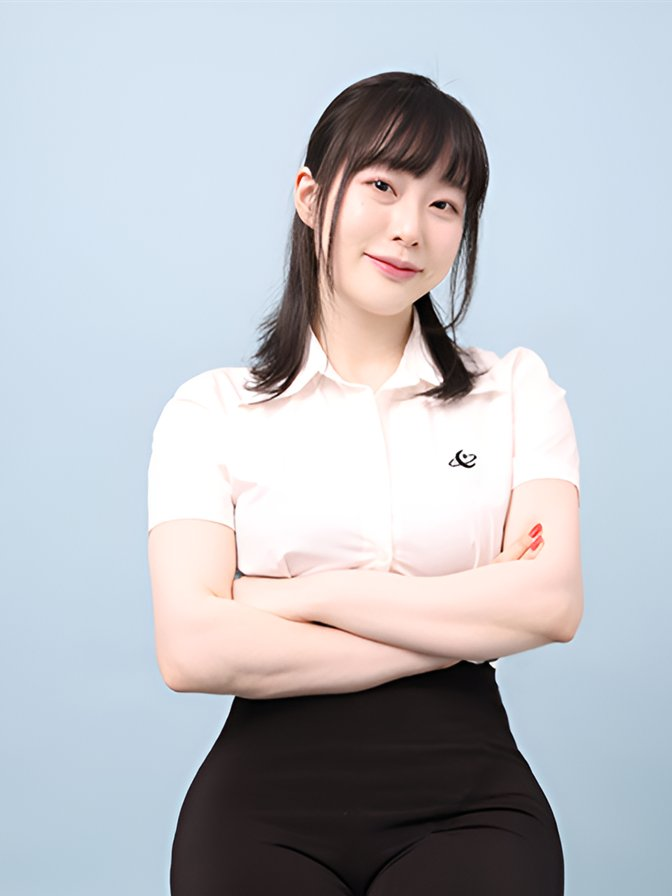
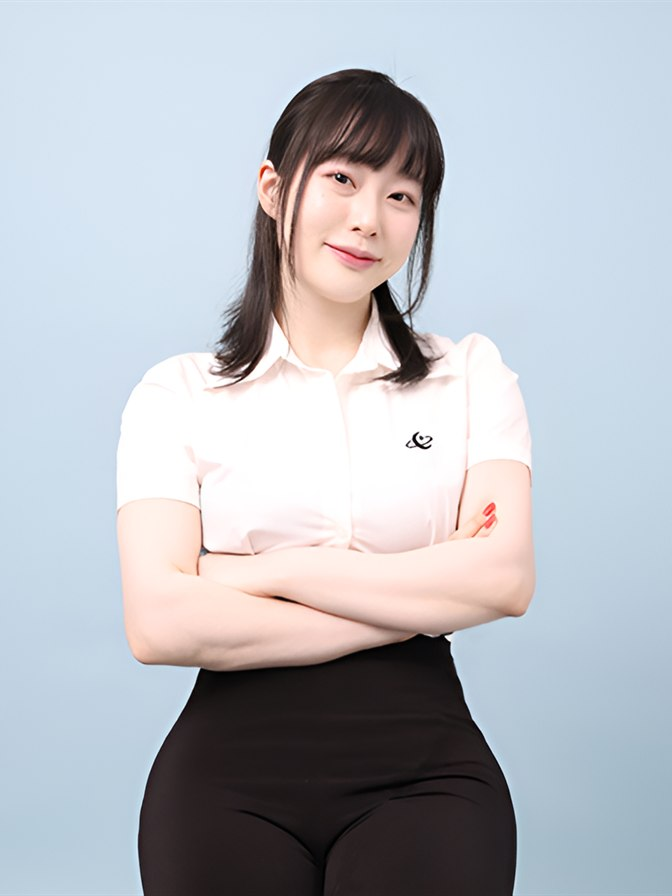
🐛 fix: VOC 디스크립션 보강 · 마퀴 속도 80% · 과확대 트레이너 사진 재크롭
- VOC 화자를 "PT 회원 중 비율이 가장 높은 30대 여성"으로 명시
- 마퀴 속도 74/-68 → 59.2/-54.4 px/s (기존의 80%)
- 얼굴만 확대돼 보이던 트레이너 6명을 원본에서 재크롭.
  머리 비율: 조연주 36→26%, 이동욱 30→26%, 김진환 29→27%,
  이재웅 28→26%, 정서미 27→25%, 김건훈은 머리가 상단에 붙어
  잘릴 뻔해 헤드룸 10% 확보(21%)
  B줄 편차 23~36% → 23~27%로 축소
- 크롭은 눈대중이 아니라 원본에 5% 눈금을 얹어 머리 상단·턱을
  실측한 뒤 cropH = 머리높이 ÷ 목표비율로 계산

Changed region(s): [[0.1562, 0.0625, 0.875, 1.0], [0.5625, 0.9062, 0.7188, 0.9688], [0.4375, 0.9375, 0.5625, 1.0]]

diff --git a/index.html b/index.html
@@ -59,7 +59,7 @@
     <div class="reveal">
       <h2 class="prob__big">이런 말,<br><span class="prob__u">한 번쯤</span> 해보셨죠.</h2>
       <!-- 화자를 VOC '앞'에서 밝혀야 동일시가 걸림 (읽고 난 뒤 각주로는 늦음) -->
-      <p class="lead">버핏그라운드 30대 여성 회원들이 설문에 남긴 실제 답변입니다.</p>
+      <p class="lead">버핏그라운드 PT 회원 중 비율이 가장 높은 30대 여성들이 설문에 남긴 실제 답변입니다.</p>
     </div>
 
     <div class="voc reveal">

diff --git a/script.js b/script.js
@@ -182,7 +182,7 @@ document.querySelectorAll('.marquee__row').forEach((row) => {
   // data-dir="rev"인 줄은 반대로 흘러 두 줄이 엇박자를 이룬다.
   // 속도도 살짝 다르게 줘서 같은 위상으로 겹치지 않게.
   const rev = row.dataset.dir === 'rev';
-  const SPEED = (rev ? -68 : 74);  // px/s
+  const SPEED = (rev ? -54.4 : 59.2);  // px/s — 기존(-68/74)의 80%
   const RESUME_DELAY = 1800;       // 손 뗀 뒤 자동 재개까지
   const reduce = window.matchMedia('(prefers-reduced-motion: reduce)').matches;
 
